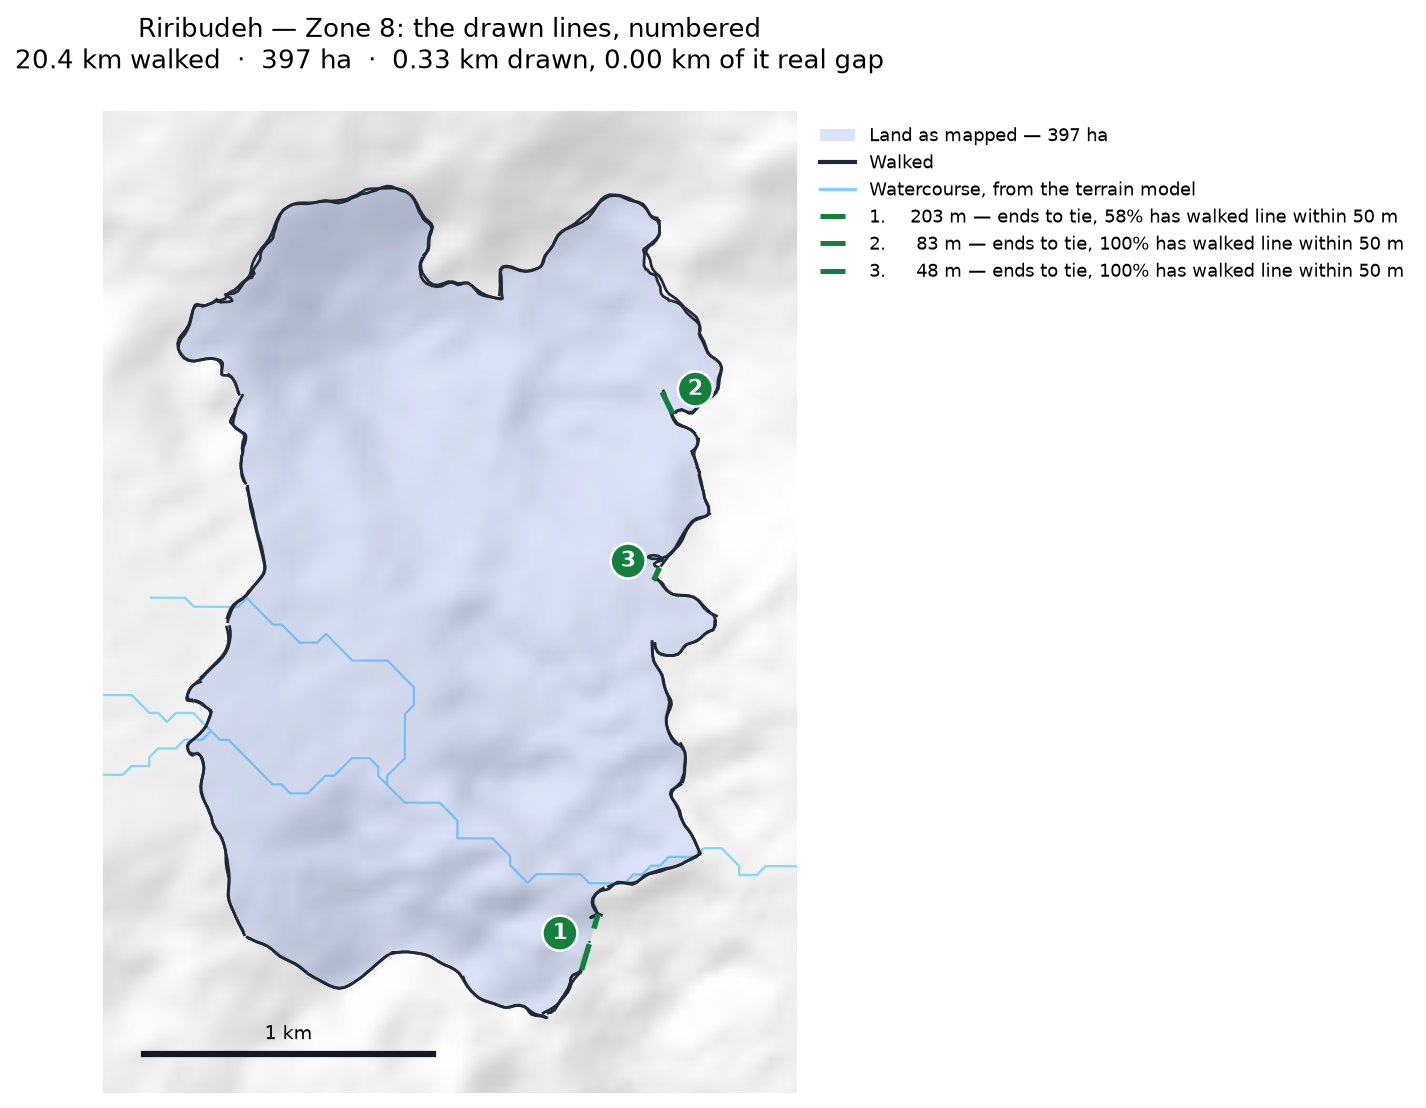
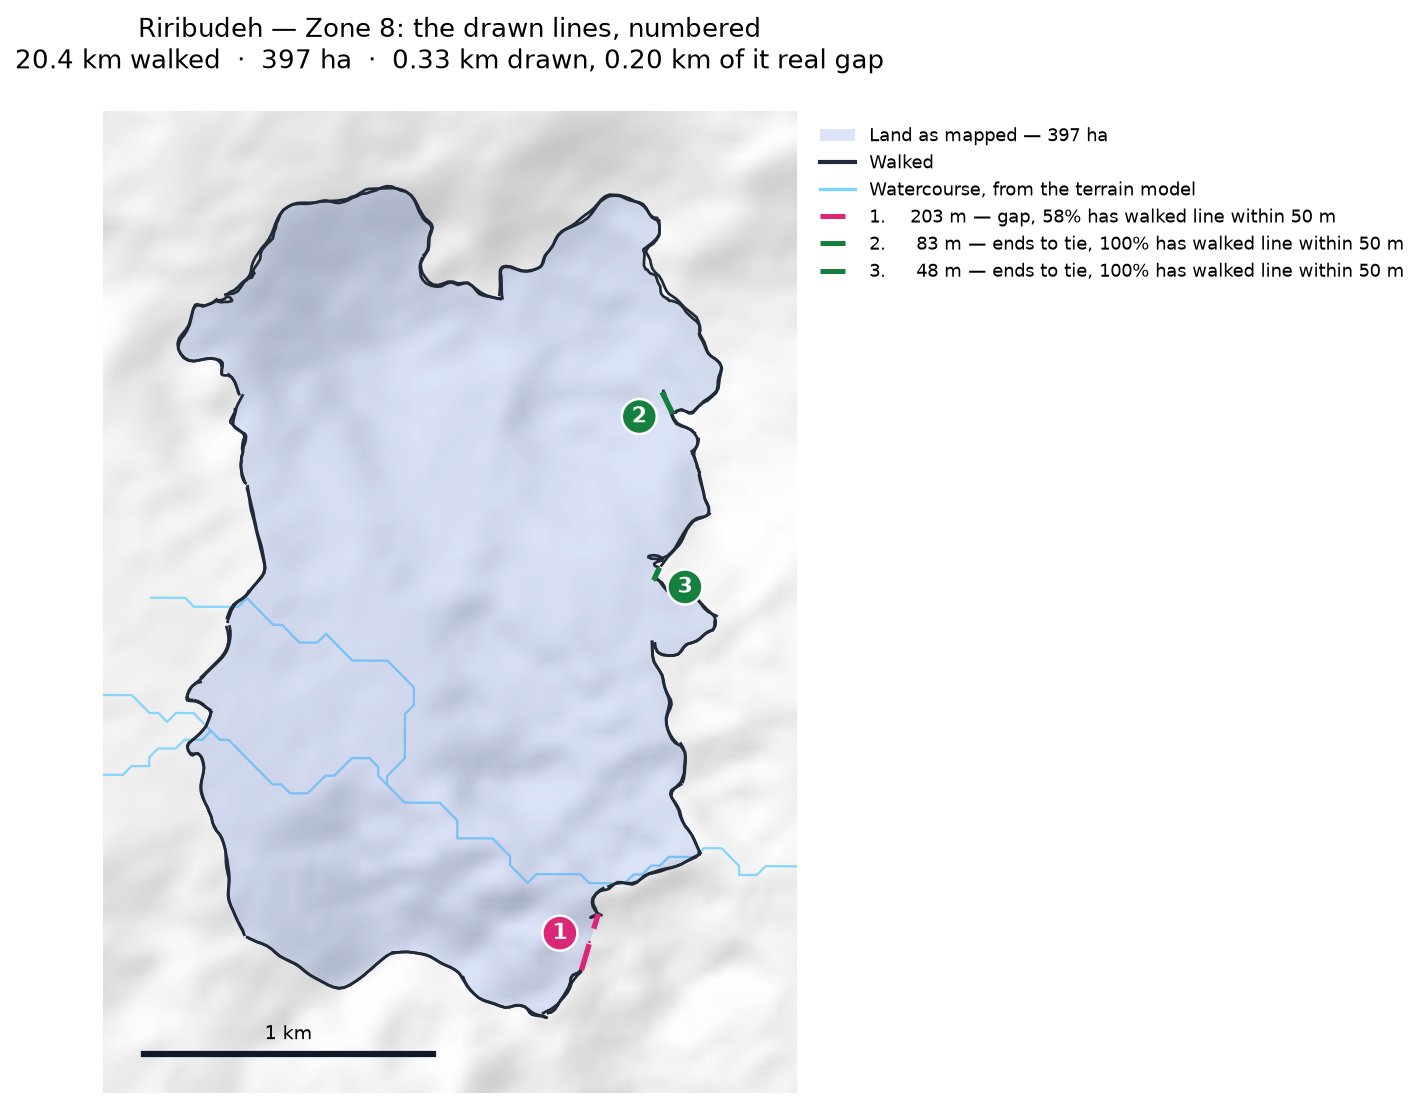
Pin Riribudeh chord 1 as a real gap
203 m between two named places with nothing walked between them: Butam do
in the south — which Prut Buitari writes "But am doa" — and Muamara in the
north. Both notes sit 1-2 m from the chord's ends. Both stewards walked
this boundary together, both stopped at Butam do and both resumed at
Muamara, and the middle of the gap is 85 m from any walked line.

The chord map was calling it "ends to tie, 58%". classify() now takes a
pinned gap as a gap: the coverage test averages over the whole line, so a
line well covered at both ends and empty in the middle reads as covered,
and that is the shape of a seam between two recordings and of a real gap
between two approach tracks alike. Where someone has looked at the line
and settled it, that settles it.

Riribudeh: 397 ha, one real gap of 203 m, two ties left.

Claude-Session: https://claude.ai/code/session_01K6X75MkuiGQ9rmgDZx45vk

diff --git a/scripts/chord_map.py b/scripts/chord_map.py
@@ -45,6 +45,7 @@ from shapely.ops import unary_union  # noqa: E402
 
 sys.path.insert(0, str(Path(__file__).resolve().parent))
 import dataio  # noqa: E402
+import closure  # noqa: E402
 import polygons as polygon_tools  # noqa: E402
 import terrain  # noqa: E402
 
@@ -132,11 +133,19 @@ def classify(unit: str, bridges: list, walked, tolerance: float,
     """Each drawn line, with how much of it already has walked line beside it."""
     ordered = sorted(bridges, key=lambda b: -b.length)
     numbers = numbering(unit, ordered, record=record)
+    pinned = closure.agreed_gaps(unit)
     rows = []
     for index, line in enumerate(ordered):
         near = line.intersection(walked.buffer(tolerance)).length / line.length
+        # A gap already agreed is a gap. The coverage test averages over the
+        # whole line, so one that is well covered at both ends and empty in
+        # the middle reads as covered — which is what Riribudeh's chord 1
+        # does at 58%, with 85 m of nothing at its midpoint. Where someone
+        # has looked at the line and settled it, that settles it.
+        agreed = any(g.hausdorff_distance(line) < 25 for g in pinned)
         rows.append({"n": numbers[index], "line": line, "share": near * 100,
-                     "kind": "gap" if near < cut else "tie"})
+                     "kind": "gap" if (agreed or near < cut) else "tie",
+                     "agreed": agreed})
     return rows
 
 
